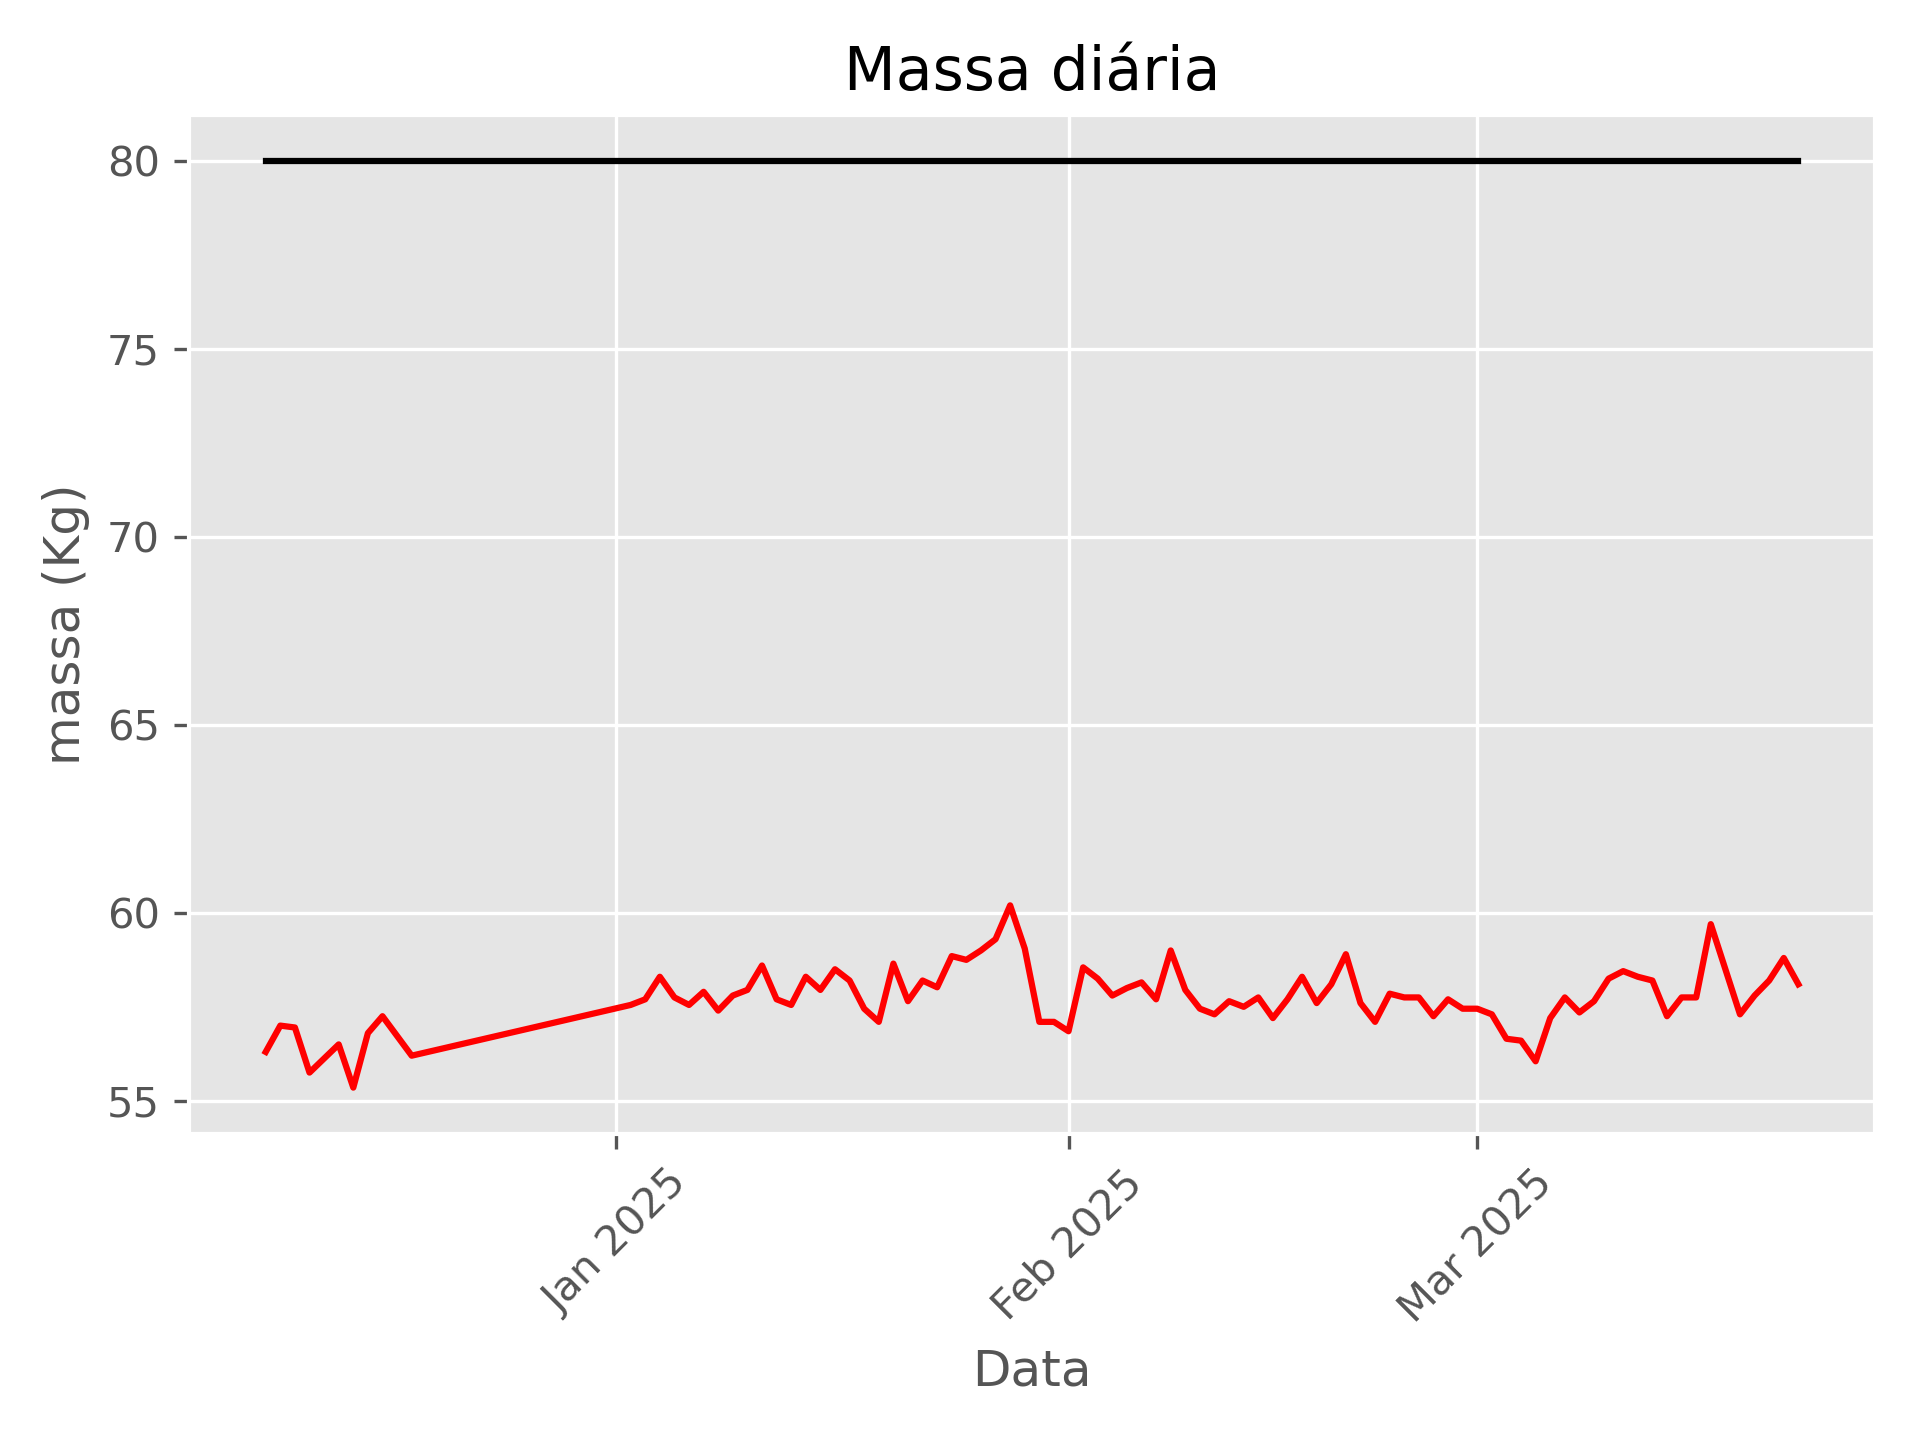
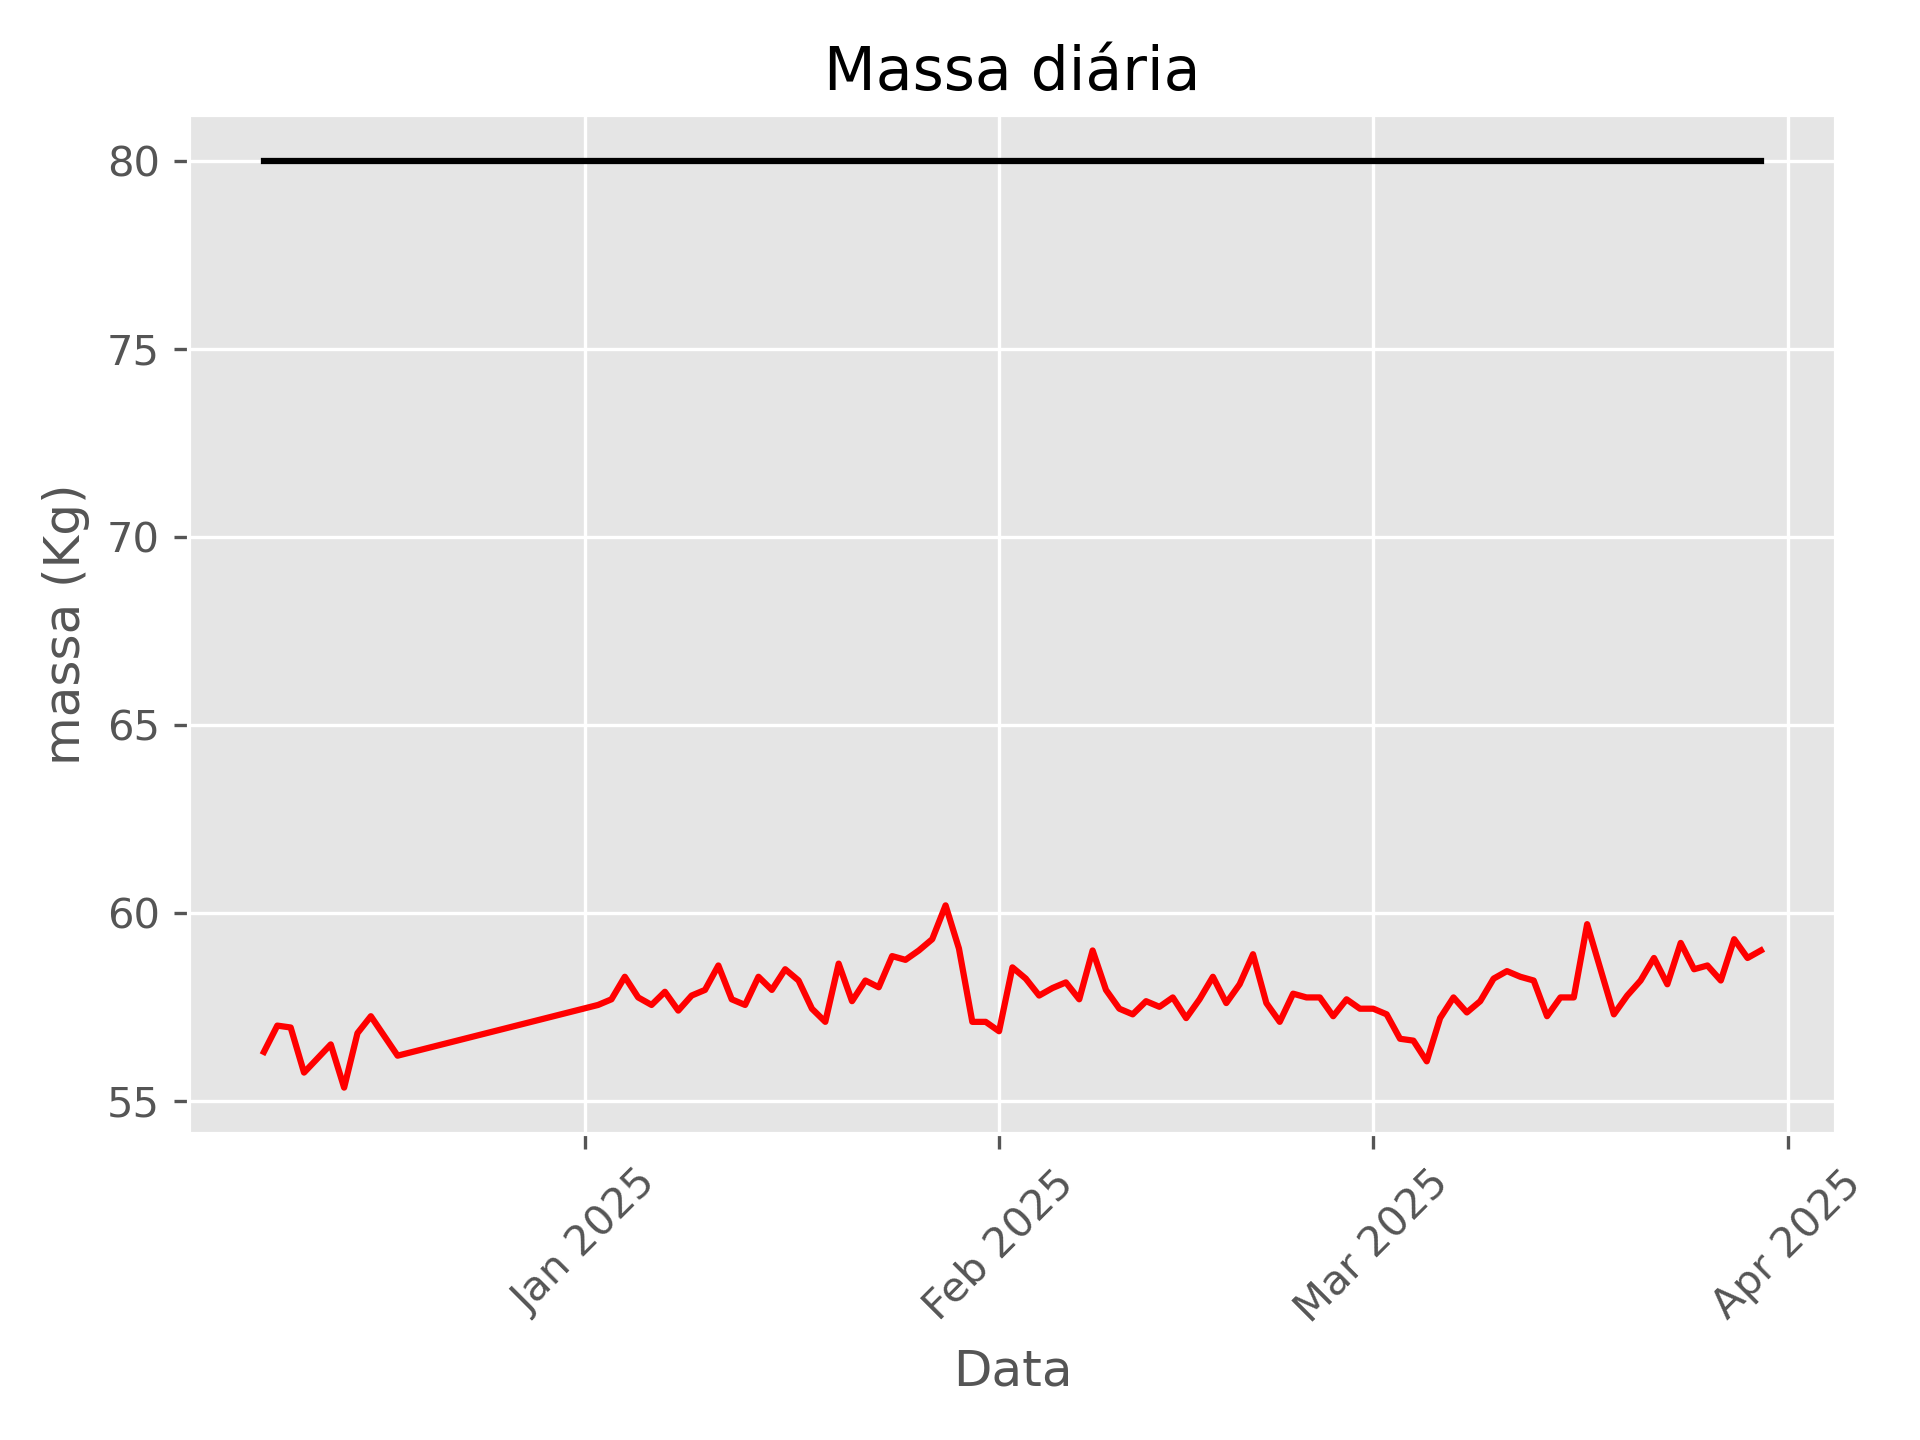
New graphs and new week data

diff --git a/update.py b/update.py
@@ -8,9 +8,25 @@ import plotly.graph_objects as go
 plt.style.use('ggplot')
 
 peso = pd.read_csv('files/massa.txt')
-
+weight = peso.iloc[:, 1]
 dt = pd.to_datetime(peso.iloc[:,0], format='%d/%m/%Y')
-weight = peso.iloc[:,1]
+
+fat = pd.read_csv('files/fat.txt')
+fat_v = fat.iloc[:, 1]
+fat_dt = pd.to_datetime(fat.iloc[:,0], format='%d/%m/%Y')
+
+muscular_mass = pd.read_csv('files/muscular_mass.txt')
+musc_v = muscular_mass.iloc[:,1]
+musc_dt = pd.to_datetime(muscular_mass.iloc[:,0], format='%d/%m/%Y')
+
+protein = pd.read_csv('files/protein.txt')
+protein_v=protein.iloc[:,1]
+protein_dt = pd.to_datetime(protein.iloc[:,0], format='%d/%m/%Y')
+
+viceral_fat = pd.read_csv('files/viceral_fat.txt')
+viceral_v=viceral_fat.iloc[:,1]
+viceral_dt = pd.to_datetime(viceral_fat.iloc[:,0], format='%d/%m/%Y')
+
 objetive = np.ones(len(dt))*80
 
 fig = go.Figure(data=go.Scatter(x=dt, y=weight, mode='markers', name='massa ao longo do tempo'))
@@ -26,29 +42,61 @@ fig.update_layout(
 # Salvando o gráfico como um arquivo HTML
 #fig.write_html("image/massa_diaria.html")
 
-#plt.scatter(dt, weight, marker='o', color='red')
 plt.plot(dt, weight, color='red')
 plt.plot(dt, objetive, color='black')
 plt.ylabel('massa (Kg)')
 plt.title('Massa diária')
 plt.xlabel('Data')
 #plt.legend()
-
 plt.gca().xaxis.set_major_formatter(mdates.DateFormatter("%b %Y"))  # Exemplo: 'Jan 2023'
 plt.gca().xaxis.set_major_locator(mdates.MonthLocator())  # Colocar um marcador por mês
-
 # Melhorar a visualização das labels no eixo X
 plt.xticks(rotation=45)
 plt.tight_layout()
-
 plt.savefig('image/massa_diaria.png', dpi=300)
+plt.close()
 
-#exercicios de academia
-df = pd.read_csv('files/academia.txt')
-dt = pd.to_datetime(df.iloc[:,0], format='%d/%m/%Y')
+#protein
+plt.plot(protein_dt, protein_v, color='black')
+plt.ylabel('proteina (Kg)')
+plt.title('daily protein')
+plt.xlabel('Data')
+#plt.legend()
+plt.gca().xaxis.set_major_formatter(mdates.DateFormatter("%b %Y"))  # Exemplo: 'Jan 2023'
+plt.gca().xaxis.set_major_locator(mdates.MonthLocator())  # Colocar um marcador por mês
+# Melhorar a visualização das labels no eixo X
+plt.xticks(rotation=45)
+plt.tight_layout()
+plt.savefig('image/daily_protein.png', dpi=300)
+plt.close()
 
-now = pd.to_datetime(datetime.datetime.today().date())
-ran = pd.date_range(start=dt[0], end=now)
+#muscular mass
+plt.plot(musc_dt, musc_v, color='black')
+plt.ylabel('musc')
+plt.title('daily muscular')
+plt.xlabel('Data')
+#plt.legend()
+plt.gca().xaxis.set_major_formatter(mdates.DateFormatter("%b %Y"))  # Exemplo: 'Jan 2023'
+plt.gca().xaxis.set_major_locator(mdates.MonthLocator())  # Colocar um marcador por mês
+# Melhorar a visualização das labels no eixo X
+plt.xticks(rotation=45)
+plt.tight_layout()
+plt.savefig('image/daily_muscular.png', dpi=300)
+plt.close()
+
+#body fat
+plt.plot(fat_dt, fat_v, color='black')
+plt.ylabel('body fat')
+plt.title('body fat')
+plt.xlabel('Data')
+#plt.legend()
+plt.gca().xaxis.set_major_formatter(mdates.DateFormatter("%b %Y"))  # Exemplo: 'Jan 2023'
+plt.gca().xaxis.set_major_locator(mdates.MonthLocator())  # Colocar um marcador por mês
+# Melhorar a visualização das labels no eixo X
+plt.xticks(rotation=45)
+plt.tight_layout()
+plt.savefig('image/body_fat.png', dpi=300)
+plt.close()
 
 
 
